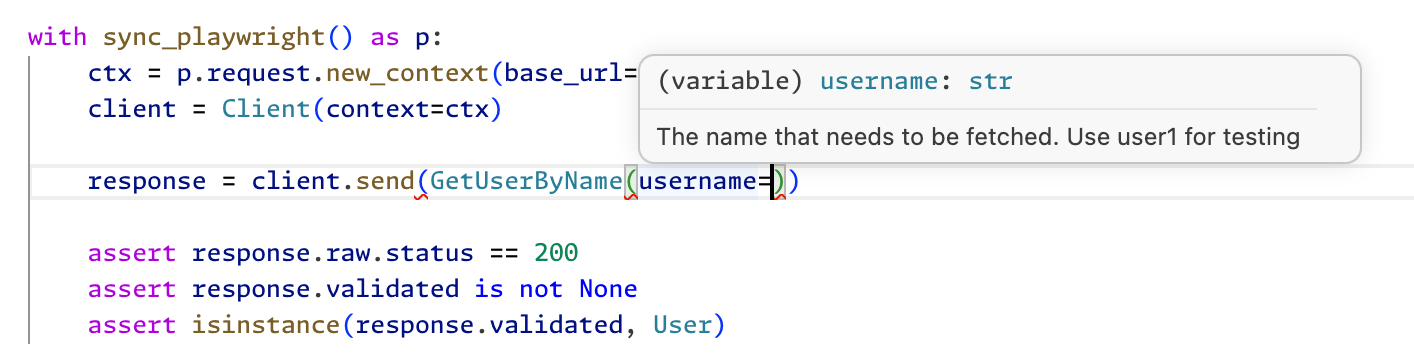
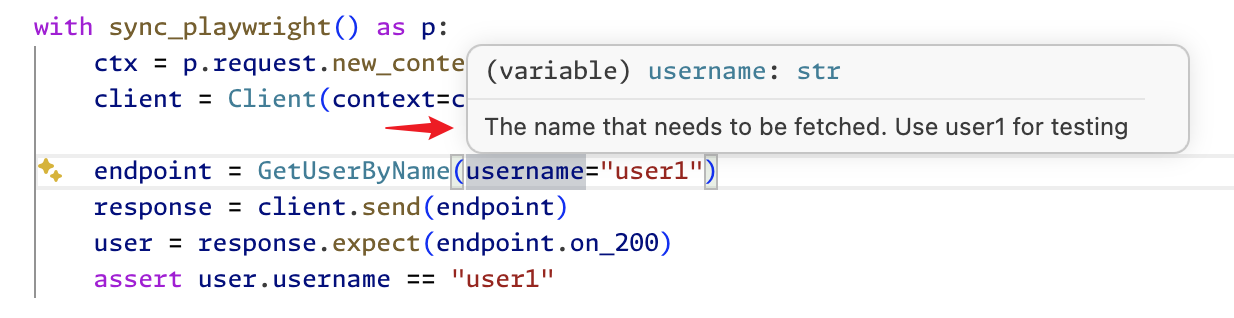
docs: quickstart

diff --git a/docs/assets/guide/quickstart/get_user_by_name.py b/docs/assets/guide/quickstart/get_user_by_name.py
@@ -1,0 +1,61 @@
+from typing import Annotated
+
+from playwright.sync_api import sync_playwright
+from pydantic import BaseModel, Field
+
+from stoma import APIRoute, APIRouter, Client, ResponseSpec
+
+
+class User(BaseModel):
+    id: Annotated[int | None, Field(examples=[10])] = None
+    """Example: 10"""
+    username: Annotated[str | None, Field(examples=["theUser"])] = None
+    """Example: 'theUser'"""
+    first_name: Annotated[str | None, Field(alias="firstName", examples=["John"])] = None
+    """Example: 'John'"""
+    last_name: Annotated[str | None, Field(alias="lastName", examples=["James"])] = None
+    """Example: 'James'"""
+    email: Annotated[str | None, Field(examples=["john@email.com"])] = None
+    """Example: 'john@email.com'"""
+    password: Annotated[str | None, Field(examples=["12345"])] = None
+    """Example: '12345'"""
+    phone: Annotated[str | None, Field(examples=["12345"])] = None
+    """Example: '12345'"""
+    user_status: Annotated[int | None, Field(alias="userStatus", examples=[1])] = None
+    """
+    User Status
+
+    Example: 1
+    """
+
+
+router = APIRouter(prefix="/api/v3")
+
+
+@router.get("/user/{username}")
+class GetUserByName(APIRoute):
+    """Get user by user name.。
+
+    Get user detail based on username.
+    """
+
+    username: str
+    """The name that needs to be fetched. Use user1 for testing"""
+
+    @property
+    def on_200(self) -> ResponseSpec[User]:
+        return ResponseSpec(
+            status_code=200,
+            media_type="application/json",
+            expected_type=User,
+        )
+
+
+with sync_playwright() as p:
+    ctx = p.request.new_context(base_url="https://petstore3.swagger.io")
+    client = Client(context=ctx)
+
+    endpoint = GetUserByName(username="user1")
+    response = client.send(endpoint)
+    user = response.expect(endpoint.on_200)
+    assert user.username == "user1"

diff --git a/docs/guide/quickstart.md b/docs/guide/quickstart.md
@@ -19,10 +19,8 @@ pip install stoma[cli]
 
 ```python
 from typing import Annotated
-
 from pydantic import BaseModel, Field
 from stoma import APIRoute, APIRouter, ResponseSpec
-
 
 class User(BaseModel):
     id: Annotated[int | None, Field(examples=[10])] = None
@@ -46,32 +44,32 @@ class User(BaseModel):
     Example: 1
     """
 
-
 router = APIRouter(prefix="/api/v3")
-
 
 @router.get("/user/{username}")
 class GetUserByName(APIRoute):
-    """Get user by user name.
+    """Get user by user name.。
 
     Get user detail based on username.
     """
 
-    @property
-    def on_200(self) -> ResponseSpec[User]:
-        return ResponseSpec(status_code=200, media_type="application/json", expected_type=User)
-
     username: str
     """The name that needs to be fetched. Use user1 for testing"""
+
+    @property
+    def on_200(self) -> ResponseSpec[User]:
+        return ResponseSpec(
+            status_code=200,
+            media_type="application/json",
+            expected_type=User,
+        )
 ```
 
 * `router = APIRouter(prefix="/api/v3")` - 实例化 `APIRouter`，并为所有关联接口设置公共的路径前缀 `/api/v3`。
 * `@router.get("/user/{username}")` - 定义接口的请求方法（`GET`）和路径（`/user/{username}`），其中包含一个路径参数 `username`。最终接口路径为 `/api/v3/user/{username}`。
-* `class GetUserByName(APIRoute):` - 定义接口，Stoma 中一个接口必须是 `APIRoute` 子类。
-    - `APIRoute` 是 pydantic `BaseModel` 子类，定义接口和定义 pydantic 模型是相同的书写方式。
-    - 通过 `@property def on_<status_code>(self) -> ResponseSpec[T]` 声明响应协议。当接口响应 Header `Content-Type` 是 JSON（如 `application/json`）时，调用方通过 `response.expect(...)` 按声明的 `expected_type` 校验响应体并返回对应实例，示例中校验后类型为 `User`。
-* `username: str` - Path 参数。如果字段名和路径参数相同，会被识别为 Path 参数。
-
+* `class GetUserByName(APIRoute):` - 定义接口，Stoma 中一个接口必须是 `APIRoute` 子类。同时 `APIRoute` 是 Pydantic `BaseModel` 子类，所以 Stoma 中定义接口和定义 Pydantic 模型是相同的书写方式。
+    -  `username: str` - Path 参数。如果字段名和路径参数相同，会被识别为 Path 参数。
+    - `property on_200` - 声明 Status Code 为 200 时的响应协议。
 
 ## 调用接口
 
@@ -85,18 +83,16 @@ with sync_playwright() as p:
 
     endpoint = GetUserByName(username="user1")
     response = client.send(endpoint)
-
-    if response.raw.status == 200:
-        user = response.expect(endpoint.on_200)  # 显式校验，类型为 User
-        assert isinstance(user, User)
+    user = response.expect(endpoint.on_200)
+    assert user.username == "user1"
 ```
 
 * Stoma 内部使用 Playwright [APIRequestContext](https://playwright.dev/python/docs/api/class-apirequestcontext) 发送请求并管理 Cookie 等，Playwright 的所有特性均可以正常使用。
-* Stoma 将所有接口定义为 pydantic 模型，IDE 可以自动联想所有参数。
+* Stoma 将所有接口定义为 Pydantic 模型，IDE 可以自动联想所有参数。
     ![alt text](../assets/guide/quickstart/ide-autocomplete-param.png)
-    还可查看参数的说明。
+    鼠标悬浮时还可查看参数的说明。
     ![alt text](../assets/guide/quickstart/hover-param.png)
-* Stoma 通过 `on_<status_code>` 声明响应协议，实现了 IDE 可以对响应自动联想。
+* `Client.send()` 返回 `Response` 实例，`Response` 实例的 `expect()` 方法预期一个响应协议，会按照协议对 Status Code、Media type 校验，并使用 `pydantic.TypeAdapter` 将返回体转换为响应协议指定的模型，利用泛型特性实现 IDE 自动联想。
     ![alt text](../assets/guide/quickstart/ide-autocomplete-response.png)
 
 ## 回顾
